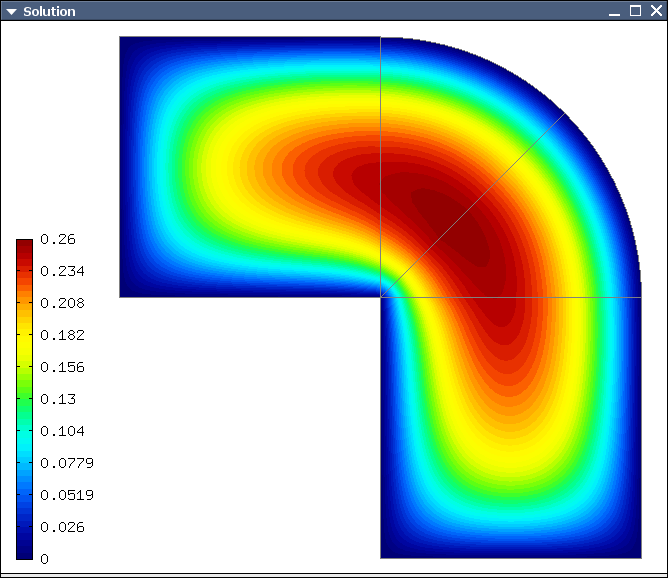
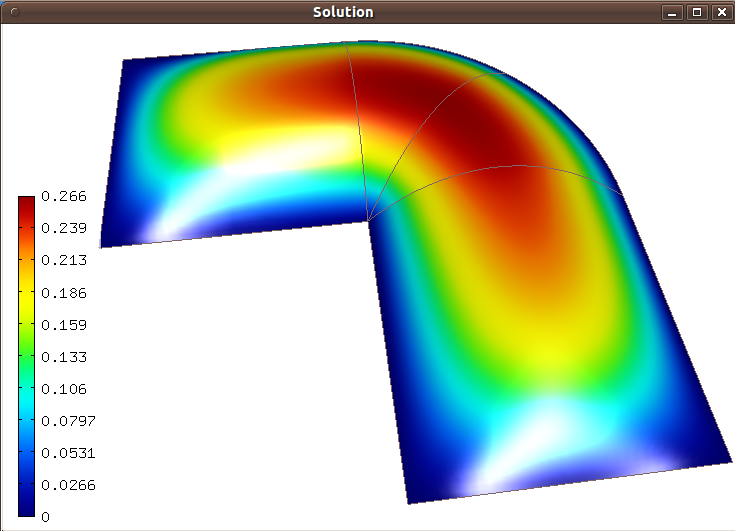
3D rendering added to VTK output in H2D.

diff --git a/hermes2d/src/linearizer/linear1.cpp b/hermes2d/src/linearizer/linear1.cpp
@@ -863,7 +863,7 @@ void Linearizer::save_data(const char* filename)
 }
 
 void Linearizer::save_solution_vtk(MeshFunction* meshfn, const char* file_name, const char *quantity_name,
-                                   int item, double eps, double max_abs,
+                                   bool mode_3D, int item, double eps, double max_abs,
                                    MeshFunction* xdisp, MeshFunction* ydisp,
                                    double dmult)
 {
@@ -875,10 +875,10 @@ void Linearizer::save_solution_vtk(MeshFunction* meshfn, const char* file_name, 
 
   // Create a piecewise-linear approximation, and save it to a file in VTK format.
   lin.process_solution(meshfn, item, eps, max_abs, xdisp, ydisp, dmult);
-  lin.save_data_vtk(file_name, quantity_name);
+  lin.save_data_vtk(file_name, quantity_name, mode_3D);
 }
 
-void Linearizer::save_data_vtk(const char* filename, const char *name)
+void Linearizer::save_data_vtk(const char* filename, const char *name, bool mode_3D)
 {
   FILE* f = fopen(filename, "wb");
   if (f == NULL) error("Could not open %s for writing.", filename);
@@ -893,7 +893,8 @@ void Linearizer::save_data_vtk(const char* filename, const char *name)
   // Output vertices.
   fprintf(f, "POINTS %d %s\n", this->nv, "float");
   for (int i=0; i < this->nv; i++) {
-    fprintf(f, "%g %g %g\n", this->verts[i][0], this->verts[i][1], 0.0);
+    if (mode_3D == true) fprintf(f, "%g %g %g\n", this->verts[i][0], this->verts[i][1], this->verts[i][2]);
+    else fprintf(f, "%g %g %g\n", this->verts[i][0], this->verts[i][1], 0.0);
   }
 
   // Output elements.

diff --git a/hermes2d/src/linearizer/linear.h b/hermes2d/src/linearizer/linear.h
@@ -67,12 +67,12 @@ public:
   virtual void load_data(const char* filename);
   // Saves a MeshFunction (Solution, Filter) in VTK format.
   virtual void save_solution_vtk(MeshFunction* meshfn, const char* file_name, const char* quantity_name,
-                                 int item = H2D_FN_VAL_0, double eps = HERMES_EPS_NORMAL, 
-                                 double max_abs = -1.0,
+                                 bool mode_3D = true, int item = H2D_FN_VAL_0, 
+                                 double eps = HERMES_EPS_NORMAL, double max_abs = -1.0,
                                  MeshFunction* xdisp = NULL, MeshFunction* ydisp = NULL,
                                  double dmult = 1.0);
   // This function is used by save_solution_vtk().
-  virtual void save_data_vtk(const char* filename, const char* name);
+  virtual void save_data_vtk(const char* filename, const char* name, bool mode_3D);
 
   void free();
 

diff --git a/hermes2d/tutorial/03-poisson/main.cpp b/hermes2d/tutorial/03-poisson/main.cpp
@@ -82,7 +82,8 @@ int main(int argc, char* argv[])
 
   // Output solution in VTK format.
   Linearizer lin;
-  lin.save_solution_vtk(&sln, "sln.vtk", "Temperature", H2D_FN_VAL_0);
+  bool mode_3D = true;
+  lin.save_solution_vtk(&sln, "sln.vtk", "Temperature", mode_3D);
   info("Solution in VTK format saved to file %s.", "sln.vtk");
 
   // Visualize the solution.

diff --git a/doc/src/hermes2d/tutorial-1/poisson.rst b/doc/src/hermes2d/tutorial-1/poisson.rst
@@ -259,22 +259,24 @@ polynomial solution using linear triangles::
 
   // Output solution in VTK format.
   Linearizer lin;
-  lin.save_solution_vtk(&sln, "sln.vtk", "Temperature");
+  bool mode_3D = true;
+  lin.save_solution_vtk(&sln, "sln.vtk", "Temperature", mode_3D);
   info("Solution in VTK format saved to file %s.", "sln.vtk");
 
 The function save_solution_vtk() can be found in hermes2d/src/linearizer/ and its 
-complete header is ::
+complete header is::
 
   // Saves a MeshFunction (Solution, Filter) in VTK format.
   virtual void save_solution_vtk(MeshFunction* meshfn, const char* file_name, const char* quantity_name,
-                                 int item = H2D_FN_VAL_0, double eps = HERMES_EPS_NORMAL, 
-                                 double max_abs = -1.0,
+                                 bool mode_3D = true, int item = H2D_FN_VAL_0, 
+                                 double eps = HERMES_EPS_NORMAL, double max_abs = -1.0,
                                  MeshFunction* xdisp = NULL, MeshFunction* ydisp = NULL,
                                  double dmult = 1.0);
 
 Only the first three arguments are mandatory, the remaining ones are optional.
 Their meaning is as follows:
 
+ * mode_3D ... select either 2D or 3D rendering (default is 3D).
  * item:
    H2D_FN_VAL_0 ... show function values, 
    H2D_FN_DX_0  ... show x-derivative,
@@ -290,25 +292,25 @@ Their meaning is as follows:
  * max_abs: technical parameter, see file src/linearizer/linear.h.
  * xdisp, ydisp, dmult: Can be used to deform the domain. Typical applications are elasticity, plasticity, etc.
  
-The following figure shows the corresponding VTK file in Paraview.
+The following figure shows the corresponding Paraview visualization:
 
 .. image:: 03/vtk.png
    :align: center
-   :width: 500
+   :width: 530
    :alt: Solution of the Poisson equation.
 
 
 Visualizing the solution using OpenGL (optional)
 ~~~~~~~~~~~~~~~~~~~~~~~~~~~~~~~~~~~~~~~~~~~~~~~~
 
-The solution can be visualized via the ScalarView class::
+The solution can also be visualized via the ScalarView class::
 
     // Visualize the solution.
     ScalarView view("Solution", new WinGeom(0, 0, 440, 350));
     view.show(&sln);
     View::wait();
 
-The following figure shows the OpenGL visualization (press '3' for 3D view).
+Hermes' built-in OpenGL visualization looks as follows:
 
 .. image:: 03/poisson.png
    :align: center
